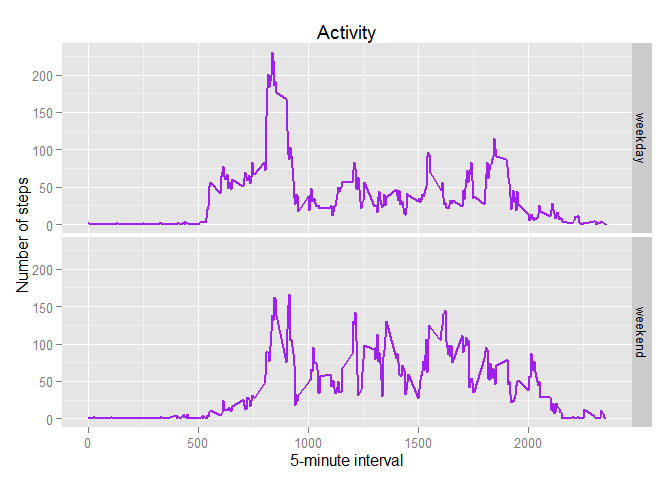
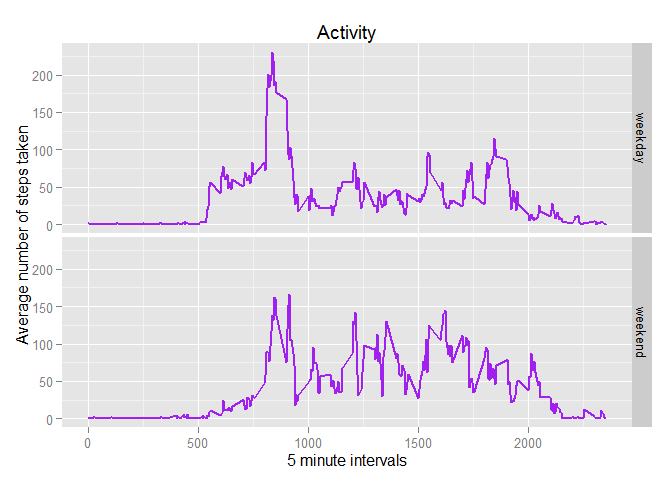
Updated file

Changed region(s): [[0.0, 0.2812, 0.0625, 0.7188], [0.4062, 0.9375, 0.625, 0.9688]]

diff --git a/PA1_template.html b/PA1_template.html
@@ -73,8 +73,14 @@ img {
 </blockquote>
 <pre class="r"><code>library(data.table)
 
-unzip(zipfile = 'activity.zip')
+if(!file.exists('activity.csv')) {
+   unzip(zipfile = 'activity.zip')
+}
+
+# Read the CSV file
 dt_activity &lt;- data.table(read.csv('activity.csv'))
+
+# Strip off NA data
 dt_activity_Complete &lt;- dt_activity[complete.cases(dt_activity), ]</code></pre>
 </div>
 <div id="what-is-mean-total-number-of-steps-taken-per-day" class="section level2">
@@ -84,7 +90,7 @@ dt_activity_Complete &lt;- dt_activity[complete.cases(dt_activity), ]</code></pr
 <p>Calculate the total number of steps taken per day</p>
 <p>If you do not understand the difference between a histogram and a barplot, research the difference between them. Make a histogram of the total number of steps taken each day</p>
 </blockquote>
-<pre class="r"><code>Tot_Steps &lt;- aggregate(dt_activity_Complete$steps, list(dt_activity_Complete$date), FUN = sum)
+<pre class="r"><code>Tot_Steps &lt;- aggregate(x = dt_activity_Complete$steps, by = list(dt_activity_Complete$date), FUN = sum)
 
 names(Tot_Steps) &lt;- c('Date', 'Steps')
 
@@ -151,7 +157,7 @@ NA_Value &lt;- function(steps, interval) {
 }
 
 dt_activity_Filled &lt;- dt_activity
-dt_activity_Filled$steps &lt;- mapply(NA_Value, dt_activity_Filled$steps, dt_activity_Filled$interval)
+dt_activity_Filled$steps &lt;- mapply(FUN = NA_Value, dt_activity_Filled$steps, dt_activity_Filled$interval)
 
 head(dt_activity_Filled, 50L)</code></pre>
 <pre><code>##         steps       date interval
@@ -209,7 +215,7 @@ head(dt_activity_Filled, 50L)</code></pre>
 <blockquote>
 <p>Make a histogram of the total number of steps taken each day and Calculate and report the mean and median total number of steps taken per day.</p>
 </blockquote>
-<pre class="r"><code>Tot_Steps &lt;- aggregate(dt_activity_Filled$steps, list(dt_activity_Filled$date), FUN = sum)
+<pre class="r"><code>Tot_Steps &lt;- aggregate(x = dt_activity_Filled$steps, by = list(dt_activity_Filled$date), FUN = sum)
 
 names(Tot_Steps) &lt;- c('Date', 'Steps')
 
@@ -244,20 +250,20 @@ qplot(Tot_Steps$Steps, binwidth = 1,
 }
 
 dt_activity_Filled$date &lt;- as.Date(dt_activity_Filled$date)
-dt_activity_Filled$day &lt;- sapply(dt_activity_Filled$date, FUN = WkDayWkEnd)</code></pre>
+dt_activity_Filled$day &lt;- sapply(X = dt_activity_Filled$date, FUN = WkDayWkEnd)</code></pre>
 <blockquote>
 <p>Make a panel plot containing a time series plot (i.e. type = ‘l’) of the 5-minute interval (x-axis) and the average number of steps taken, averaged across all weekday days or weekend days (y-axis). See the README file in the GitHub repository to see an example of what this plot should look like using simulated data.</p>
 </blockquote>
-<pre class="r"><code>Avg_Steps &lt;- aggregate(steps ~ interval + day, data = dt_activity_Filled, mean)
+<pre class="r"><code>Avg_Steps &lt;- aggregate(formula = steps ~ interval + day, data = dt_activity_Filled, FUN = mean)
 
 ggplot(Avg_Steps,
        aes(x = interval, y = steps)) +
        geom_line(color = 'Purple', lwd = 1) +
        facet_grid(day ~ .) +
-       xlab('5-minute interval') +
-       ylab('Number of steps') +
+       xlab('5 minute intervals') +
+       ylab('Average number of steps taken') +
        labs(title = 'Activity')</code></pre>
[2 lines of base64/hex data omitted]
 </div>
 
 

diff --git a/PA1_template.md b/PA1_template.md
@@ -12,8 +12,14 @@
 ```r
 library(data.table)
 
-unzip(zipfile = 'activity.zip')
+if(!file.exists('activity.csv')) {
+   unzip(zipfile = 'activity.zip')
+}
+
+# Read the CSV file
 dt_activity <- data.table(read.csv('activity.csv'))
+
+# Strip off NA data
 dt_activity_Complete <- dt_activity[complete.cases(dt_activity), ]
 ```
 
@@ -27,7 +33,7 @@ dt_activity_Complete <- dt_activity[complete.cases(dt_activity), ]
 
 
 ```r
-Tot_Steps <- aggregate(dt_activity_Complete$steps, list(dt_activity_Complete$date), FUN = sum)
+Tot_Steps <- aggregate(x = dt_activity_Complete$steps, by = list(dt_activity_Complete$date), FUN = sum)
 
 names(Tot_Steps) <- c('Date', 'Steps')
 
@@ -139,7 +145,7 @@ NA_Value <- function(steps, interval) {
 }
 
 dt_activity_Filled <- dt_activity
-dt_activity_Filled$steps <- mapply(NA_Value, dt_activity_Filled$steps, dt_activity_Filled$interval)
+dt_activity_Filled$steps <- mapply(FUN = NA_Value, dt_activity_Filled$steps, dt_activity_Filled$interval)
 
 head(dt_activity_Filled, 50L)
 ```
@@ -203,7 +209,7 @@ head(dt_activity_Filled, 50L)
 
 
 ```r
-Tot_Steps <- aggregate(dt_activity_Filled$steps, list(dt_activity_Filled$date), FUN = sum)
+Tot_Steps <- aggregate(x = dt_activity_Filled$steps, by = list(dt_activity_Filled$date), FUN = sum)
 
 names(Tot_Steps) <- c('Date', 'Steps')
 
@@ -259,21 +265,21 @@ WkDayWkEnd <- function(date) {
 }
 
 dt_activity_Filled$date <- as.Date(dt_activity_Filled$date)
-dt_activity_Filled$day <- sapply(dt_activity_Filled$date, FUN = WkDayWkEnd)
+dt_activity_Filled$day <- sapply(X = dt_activity_Filled$date, FUN = WkDayWkEnd)
 ```
 
 > Make a panel plot containing a time series plot (i.e. type = 'l') of the 5-minute interval (x-axis) and the average number of steps taken, averaged across all weekday days or weekend days (y-axis). See the README file in the GitHub repository to see an example of what this plot should look like using simulated data.
 
 
 ```r
-Avg_Steps <- aggregate(steps ~ interval + day, data = dt_activity_Filled, mean)
+Avg_Steps <- aggregate(formula = steps ~ interval + day, data = dt_activity_Filled, FUN = mean)
 
 ggplot(Avg_Steps,
        aes(x = interval, y = steps)) +
        geom_line(color = 'Purple', lwd = 1) +
        facet_grid(day ~ .) +
-       xlab('5-minute interval') +
-       ylab('Number of steps') +
+       xlab('5 minute intervals') +
+       ylab('Average number of steps taken') +
        labs(title = 'Activity')
 ```
 
